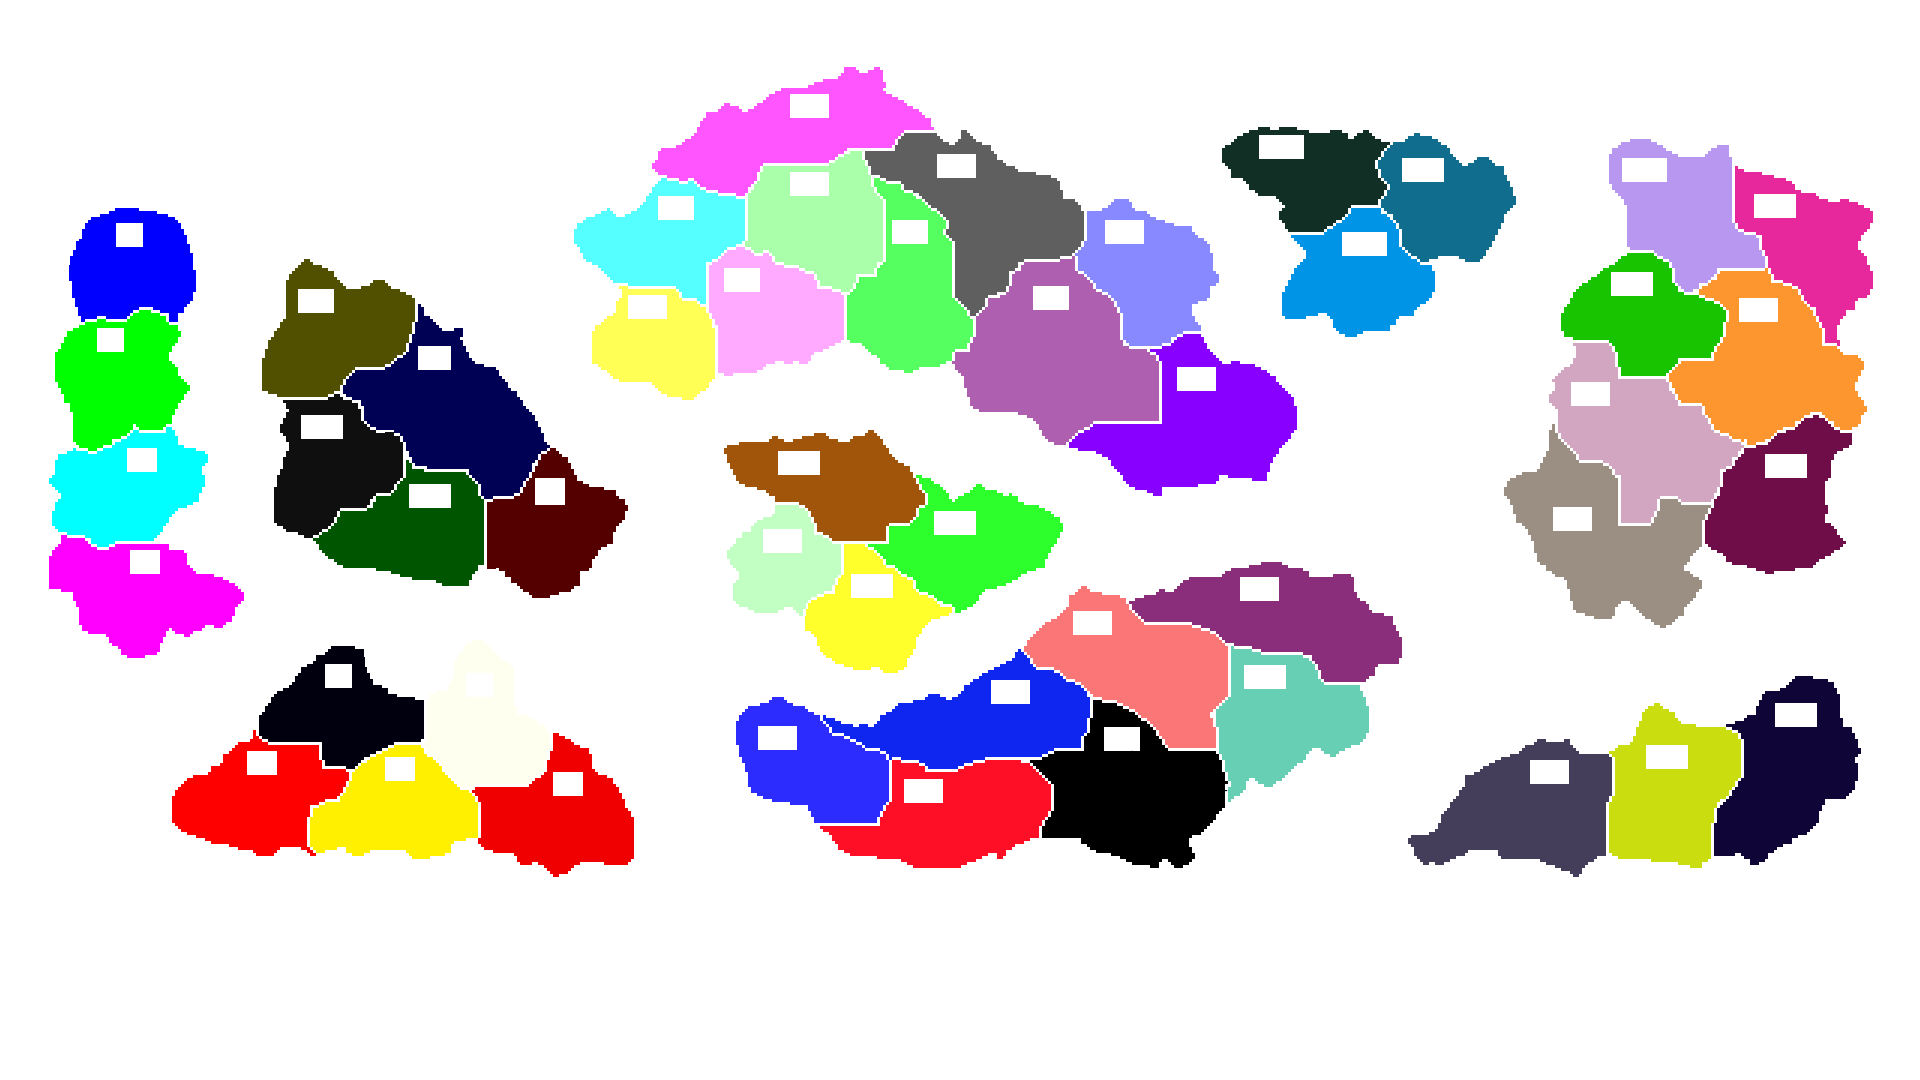
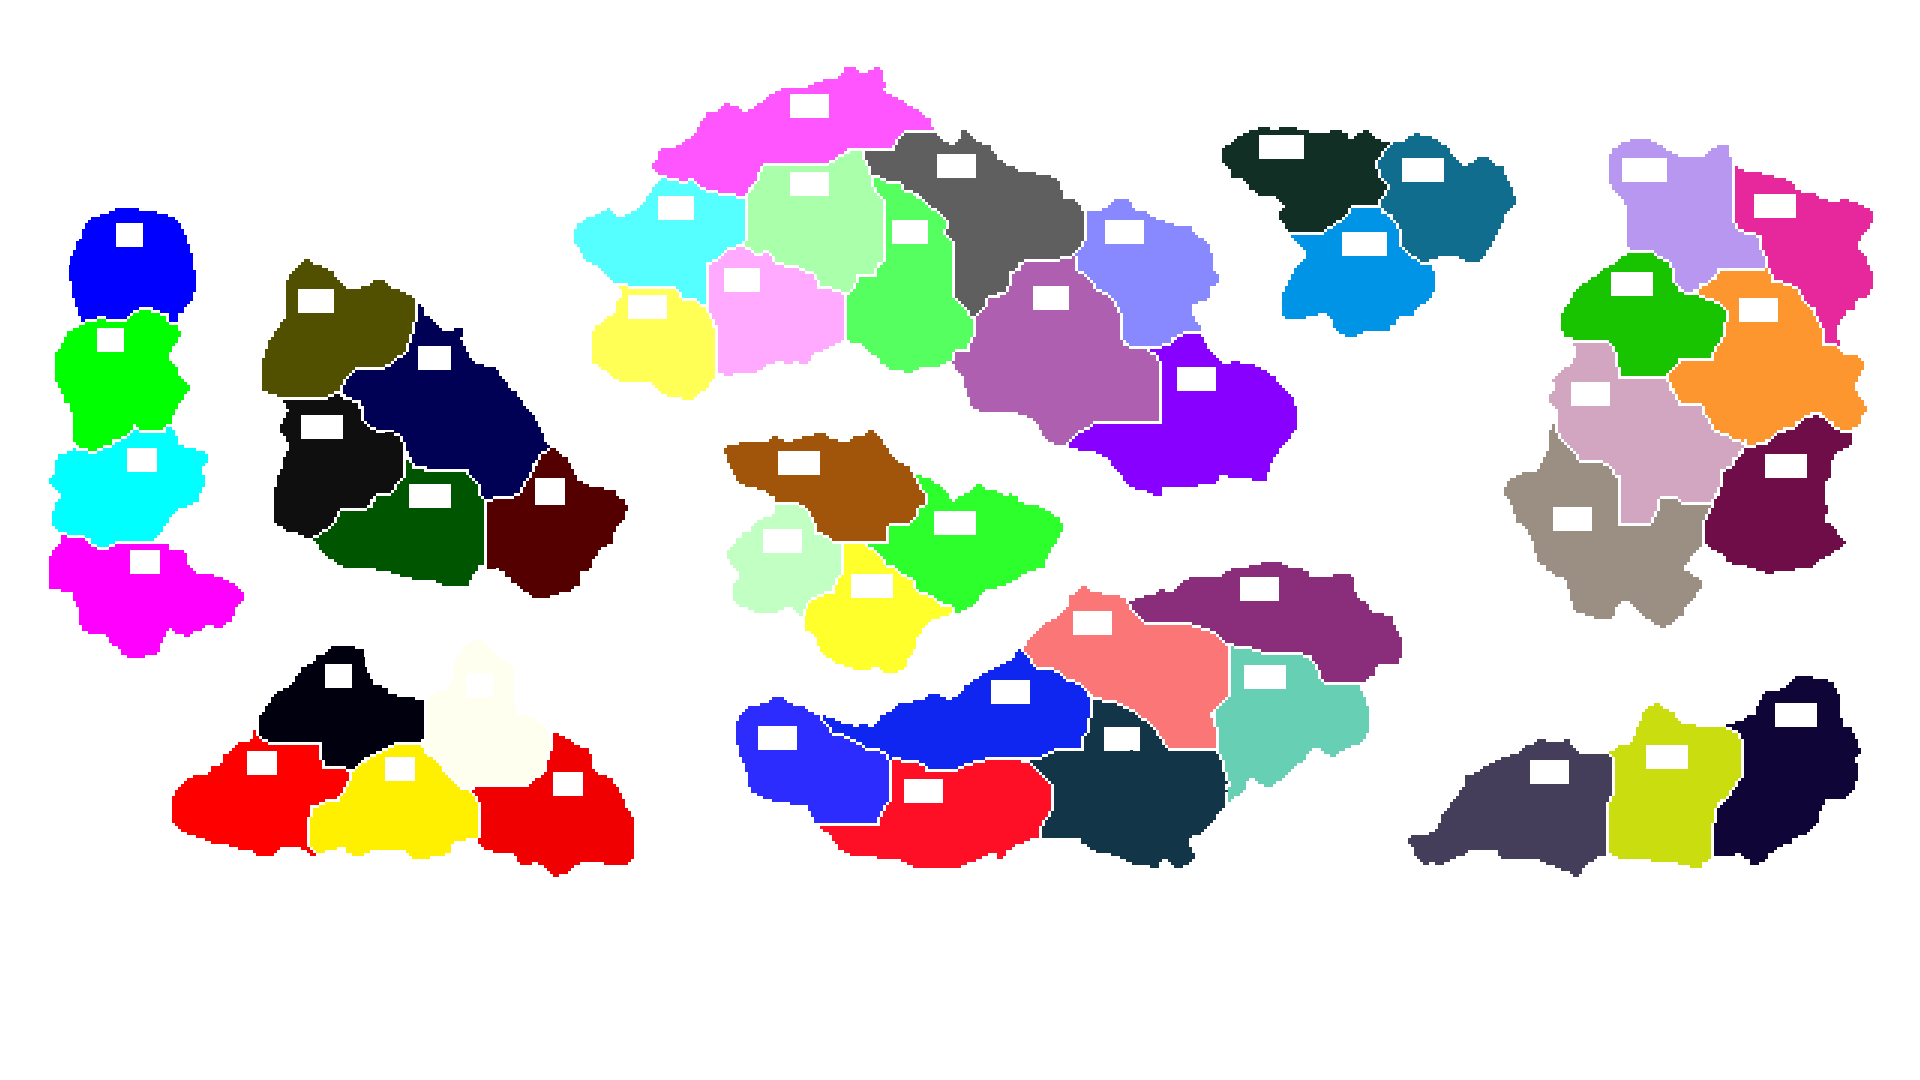
added visualization and fixed suboptimal answer set selection

Changed region(s): [[0.5312, 0.6417, 0.6562, 0.825]]

diff --git a/main_vis.py b/main_vis.py
@@ -1,0 +1,105 @@
+import pygame
+from game.engine import GameEngine
+from game.setup import create_initial_state_from_file
+from players.basic_asp_player import BasicASPPlayer
+from players.computer_random import RandomComputerPlayer
+from players.human_text import HumanTextPlayer
+from ui.renderer import (
+    build_territory_templates,
+    draw_board_state,
+    load_map_data,
+)
+from ui.text_view import print_action_result, print_board, print_game_over
+
+MAP_PATH = "./data/full_map.json"
+max_armies = 6
+add_delay = True
+scale = 0.6
+
+your_dlv_file = "./asp/programs/YOUR_FILE_NAME_HERE.dlv"
+
+def createControllers():
+    return {
+        #0: HumanTextPlayer(0, "Human"),
+        0: BasicASPPlayer(0, "My Team", your_dlv_file),
+        
+        ### Random Computer Players
+        1: RandomComputerPlayer(1, "Computer 1"),
+        2: RandomComputerPlayer(2, "Computer 2"),
+        
+        ### ASP players if you want to have three of your own bots against each other
+        #1: BasicASPPlayer(1, "DLV Player 1", your_dlv_file),
+        #2: BasicASPPlayer(2, "DLV Player 2", your_dlv_file),
+    }
+
+
+def runGame():
+
+    turn_over = False
+
+    pygame.init()
+
+    map_data = load_map_data(MAP_PATH)
+
+    board_path = "./assets/islewars_modified.jpg"
+    mask_path = "./assets/full_mask.png"
+    width = int(1920 * scale)
+    height = int(1080 * scale)
+
+    screen = pygame.display.set_mode((width, height))
+    pygame.display.set_caption("DLV Isle Wars")
+
+    board_surface = pygame.image.load(board_path).convert()
+    board_surface = pygame.transform.scale(board_surface, (width, height))
+    mask_surface = pygame.image.load(mask_path).convert_alpha()
+    mask_surface = pygame.transform.scale(mask_surface, (width, height))
+
+    templates = build_territory_templates(
+        mask_surface,
+        map_data["territories"]
+    )
+
+    font = pygame.font.SysFont(None, 26)
+
+    controllers = createControllers()
+    state = create_initial_state_from_file(controllers, "data/full_map.json", max_armies)
+    engine = GameEngine(state)
+    draw_board_state(screen, board_surface, templates, state.territories, font, scale)
+    pygame.display.flip()
+
+    ### =========================================== Start Actual Game
+    while not engine.is_game_over():
+        for event in pygame.event.get():
+                if event.type == pygame.QUIT:
+                    exit()
+
+        #print_board(engine.state)
+        player_id = engine.state.current_player_id
+        controller = controllers[player_id]
+        action = controller.choose_action(engine.state)
+        result = engine.apply_action(action)
+        print_action_result(result)
+        if str(action) == "EndPhaseAction()":
+             turn_over = True
+       
+        if turn_over:
+            turn_over = False
+            draw_board_state(screen, board_surface, templates, state.territories, font, scale)
+            pygame.display.flip()
+
+
+    print_board(engine.state)
+    print_game_over(engine.state)
+    draw_board_state(screen, board_surface, templates, state.territories, font, scale)
+
+    while(True):
+        if event.type == pygame.QUIT:
+            pygame.quit()
+
+
+def main():
+    runGame()
+
+
+if __name__ == "__main__":
+    main()

diff --git a/ui/mask_colors.py b/ui/mask_colors.py
@@ -1,0 +1,101 @@
+mask_colors = {
+0: ["0000ff", (130, 278)],
+1: ["00ff00", (119, 386)],
+2: ["00ffff", (113, 494)],
+3: ["ff00ff", (135, 605)],
+4: ["00000f", (350, 715)],
+5: ["ff0000", (248, 801)],
+6: ["fff000", (399, 809)],
+7: ["fffff0", (483, 730)],
+8: ["f00000", (560, 824)],
+9: ["550000", (547, 537)],
+10: ["005500", (414, 537)],
+11: ["000055", (470, 410)],
+12: ["0f0f0f", (336, 470)],
+13: ["505000", (346, 339)],
+14: ["ffff55", (660, 347)],
+15: ["55ffff", (640, 242)],
+16: ["ff55ff", (742, 130)],
+17: ["aaffaa", (830, 228)],
+18: ["ffaaff", (775, 318)],
+19: ["55ff5f", (909, 309)],
+20: ["5f5f5f", (1008, 206)],
+21: ["af5faf", (1056, 365)],
+22: ["8888ff", (1167, 274)],
+23: ["8800ff", (1234, 426)],
+24: ["a0550a", (865, 484)],
+25: ["c2ffc2", (769, 578)],
+26: ["2cff2c", (1016, 532)],
+27: ["ffff2c", (873, 634)],
+28: ["2c2cff", (833, 776)],
+29: ["0f25f0", (953, 721)],
+30: ["ff0f25", (983, 808)],
+31: ["123548", (1138, 801)],
+32: ["fb7676", (1167, 666)],
+33: ["8a2e7b", (1325, 613)],
+34: ["67d0b4", (1280, 729)],
+35: ["443e5b", (1528, 818)],
+36: ["cadd0e", (1665, 810)],
+37: ["100537", (1793, 775)],
+38: ["9b8e82", (1618, 566)],
+39: ["d2a5c1", (1651, 432)],
+40: ["6e0d48", (1772, 518)],
+41: ["fd962e", (1772, 366)],
+42: ["18c400", (1656, 326)],
+43: ["e7289d", (1824, 246)],
+44: ["b797ef", (1691, 207)],
+45: ["106d8d", (1456, 214)],
+46: ["112f24", (1340, 162)],
+47: ["0094e7", (1362, 291)],
+}
+
+mask_colors2 = {
+0: ["0000ff", (130, 263)],
+1: ["00ff00", (119, 376)],
+2: ["00ffff", (113, 484)],
+3: ["ff00ff", (135, 586)],
+4: ["00000f", (350, 715)],
+5: ["ff0000", (248, 791)],
+6: ["fff000", (399, 799)],
+7: ["fffff0", (483, 720)],
+8: ["f00000", (560, 807)],
+9: ["550000", (547, 537)],
+10: ["005500", (414, 537)],
+11: ["000055", (470, 410)],
+12: ["0f0f0f", (336, 470)],
+13: ["505000", (346, 339)],
+14: ["ffff55", (660, 347)],
+15: ["55ffff", (640, 242)],
+16: ["ff55ff", (742, 130)],
+17: ["aaffaa", (830, 228)],
+18: ["ffaaff", (775, 318)],
+19: ["55ff5f", (909, 309)],
+20: ["5f5f5f", (1008, 206)],
+21: ["af5faf", (1056, 365)],
+22: ["8888ff", (1167, 274)],
+23: ["8800ff", (1234, 426)],
+24: ["a0550a", (865, 484)],
+25: ["c2ffc2", (769, 578)],
+26: ["2cff2c", (1016, 532)],
+27: ["ffff2c", (873, 634)],
+28: ["2c2cff", (833, 776)],
+29: ["0f25f0", (953, 721)],
+30: ["ff0f25", (983, 808)],
+31: ["123548", (1138, 801)],
+32: ["fb7676", (1167, 666)],
+33: ["8a2e7b", (1325, 613)],
+34: ["67d0b4", (1280, 729)],
+35: ["443e5b", (1528, 818)],
+36: ["cadd0e", (1665, 810)],
+37: ["100537", (1793, 775)],
+38: ["9b8e82", (1618, 566)],
+39: ["d2a5c1", (1651, 432)],
+40: ["6e0d48", (1772, 518)],
+41: ["fd962e", (1772, 366)],
+42: ["18c400", (1656, 326)],
+43: ["e7289d", (1824, 246)],
+44: ["b797ef", (1691, 207)],
+45: ["106d8d", (1456, 214)],
+46: ["112f24", (1340, 162)],
+47: ["0094e7", (1362, 291)],
+}

diff --git a/ui/renderer.py b/ui/renderer.py
@@ -1,5 +1,6 @@
 import json
 import pygame
+from ui.mask_colors import mask_colors
 
 
 OWNER_COLORS = {
@@ -7,7 +8,7 @@ OWNER_COLORS = {
     0: (80, 140, 255, 110),    # blue
     1: (255, 90, 90, 110),     # red
     2: (90, 220, 120, 110),    # green
-    3: (240, 220, 80, 110),    # yellow
+    3: (255, 255, 80, 110),    # yellow
     4: (190, 120, 255, 110),   # purple
     5: (255, 170, 70, 110),    # orange
 }
@@ -38,23 +39,17 @@ def hex_to_rgb(hex_string):
 
 
 def build_territory_templates(mask_surface, territories):
-    """
-    Build one template surface per territory from the mask image.
-
-    Each template is a white-on-transparent surface in the shape of the
-    territory. Later we tint that shape according to owner_id.
-    """
     templates = {}
 
     for territory in territories:
         name = territory["name"]
-        rgb = hex_to_rgb(territory["visual"]["mask_color"])
+        rgb = hex_to_rgb(mask_colors[int(name)][0])
         rgba = (rgb[0], rgb[1], rgb[2], 255)
 
         territory_mask = pygame.mask.from_threshold(
             mask_surface,
             rgba,
-            threshold=(0, 0, 0, 0)
+            threshold=(1, 1, 1)
         )
 
         template = territory_mask.to_surface(
@@ -74,9 +69,9 @@ def tint_template(template, color_rgba):
 
 
 def draw_owner_overlays(screen, templates, territories):
-    for territory in territories:
-        name = territory["name"]
-        owner_id = territory["owner_id"]
+    for territory in territories.values():
+        name = territory.name
+        owner_id = territory.owner_id
         color = OWNER_COLORS.get(owner_id, OWNER_COLORS[-1])
 
         template = templates[name]
@@ -84,11 +79,13 @@ def draw_owner_overlays(screen, templates, territories):
         screen.blit(overlay, (0, 0))
 
 
-def draw_army_counts(screen, territories, font):
-    for territory in territories:
-        x, y = territory["visual"]["army_pos"]
-        owner_id = territory["owner_id"]
-        armies = territory["armies"]
+def draw_army_counts(screen, territories, font, scale):
+    for territory in territories.values():
+        x, y = mask_colors[int(territory.name)][1]
+        x *= scale
+        y *= scale
+        owner_id = territory.owner_id
+        armies = territory.armies
 
         badge_color = BADGE_COLORS.get(owner_id, BADGE_COLORS[-1])
 
@@ -100,7 +97,7 @@ def draw_army_counts(screen, territories, font):
         screen.blit(text, rect)
 
 
-def draw_board_state(screen, board_surface, templates, map_data, font):
+def draw_board_state(screen, board_surface, templates, territories, font, scale):
     screen.blit(board_surface, (0, 0))
-    draw_owner_overlays(screen, templates, map_data["territories"])
-    draw_army_counts(screen, map_data["territories"], font)
+    draw_owner_overlays(screen, templates, territories)
+    draw_army_counts(screen, territories, font, scale)

diff --git a/asp/generate_information.py b/asp/generate_information.py
@@ -28,10 +28,11 @@ def call_dlv_handler(agent_file: str, info: list, filter: str):
 
         answer_sets = handler.start_sync()
 
-        for answer_set in answer_sets.get_answer_sets():
-            answer = str(answer_set).replace("[","").replace("]","").replace("'","").split(", ")
-            #print(answer)
-            return answer
+        # get last generated answer set (one of the optimals)
+        answer_set = answer_sets.get_answer_sets()[-1]
+        answer = str(answer_set).replace("[","").replace("]","").replace("'","").split(", ")
+        #print(answer)
+        return answer
 
     except Exception as e:
         print(str(e))

diff --git a/game/setup.py b/game/setup.py
@@ -57,8 +57,8 @@ def load_territories(num_players: int, max_armies: int, filename: str) -> dict[s
     # after loading in from json file, assign territories to players and numbers of armies
     for i in range(len(territories)):
         num_armies = random.randint(1, max_armies)
-        territories[str(i+1)].owner_id = assigns[i]
-        territories[str(i+1)].armies = num_armies
+        territories[str(i)].owner_id = assigns[i]
+        territories[str(i)].armies = num_armies
 
     return territories
 